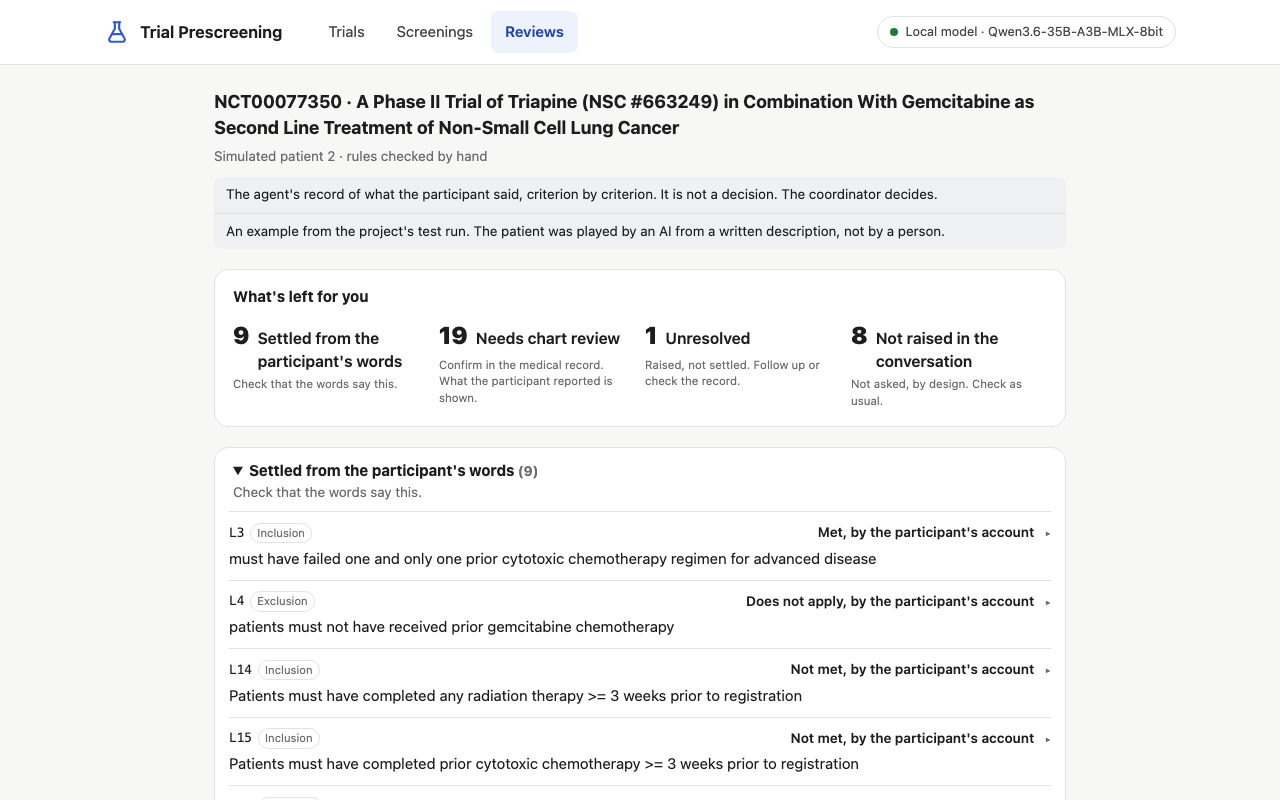
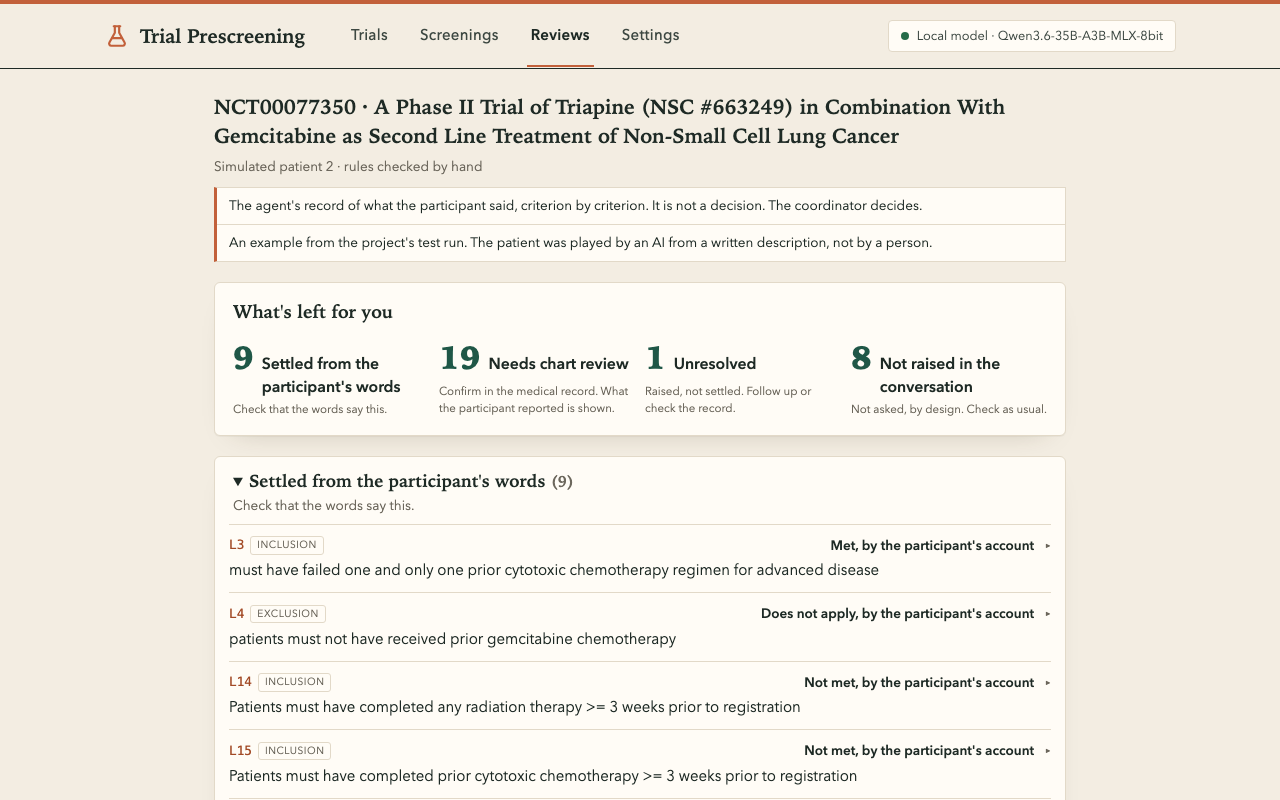
0018 step 7: images, demo and preview card retaken; focus ring; GIF width

Changed region(s): [[0.0, 0.0, 1.0, 1.0]]

diff --git a/scripts/make-demo.ts b/scripts/make-demo.ts
@@ -8,7 +8,8 @@
  * the page waits on the model are sped up so each lasts a fraction of a
  * second, and everything else plays as recorded. This trims, speeds and joins
  * those pieces with `ffmpeg`, then makes a looping GIF with its own palette.
- * If the GIF is over 5 MB it tries a lower frame rate, then a narrower width.
+ * If the GIF is over 5 MB it tries a lower frame rate, then narrower widths
+ * (720 px since slice 0018: the warmer page compresses less well).
  *
  * `ffmpeg` is a system tool, not a dependency, and is needed for this only.
  * No network, no model.
@@ -38,6 +39,7 @@ export const ATTEMPTS = [
   { fps: 12, width: 960 },
   { fps: 10, width: 960 },
   { fps: 10, width: 800 },
+  { fps: 10, width: 720 },
 ] as const;
 
 const CUTS_FILE = fileURLToPath(new URL("../e2e/.out/capture/cuts.json", import.meta.url));

diff --git a/src/web/styles.css b/src/web/styles.css
@@ -117,6 +117,11 @@ button:disabled {
   opacity: 0.45;
   cursor: default;
 }
+/* The focus ring in the page's ink, not the browser's blue (slice 0018). */
+:focus-visible {
+  outline: 2px solid var(--accent);
+  outline-offset: 2px;
+}
 .button.secondary,
 button.secondary {
   background: transparent;

diff --git a/work/0018-paper-and-ink/plan.md b/work/0018-paper-and-ink/plan.md
@@ -96,10 +96,11 @@ Each step is one commit, through `npm run check && git commit`. No Co-Authored-B
 **Modified:**
 - `src/web/styles.css`, `src/web/index.html`
 - `e2e/capture/social-card.html`
+- `scripts/make-demo.ts` (step 7: one more fallback width for the GIF)
 - `docs/images/trials.png`, `screening.png`, `review.png`, `transcript.png`, `settings.png`, `social-card.png`, `demo.gif`
 - `work/ROADMAP.md`; `work/0018-paper-and-ink/spec.md` only if step 5 moves a value
 
-**Not touched, checked at step 9:** every `src/web/*.tsx`, `src/web/logic.ts`, `src/web/review.ts`, `src/server/`, `src/transport/`, `src/screening/`, `src/criteria/`, `src/plain/`, `src/models/`, `src/trials/`, `tests/`, `e2e/*.spec.ts`, `e2e/lib/`, `evals/`, `data/`, `package.json`, `package-lock.json`, `README.md`, `CLAUDE.md`.
+**Not touched, checked at step 9:** every `src/web/*.tsx`, `src/web/logic.ts`, `src/web/review.ts`, `src/server/`, `src/transport/`, `src/screening/`, `src/criteria/`, `src/plain/`, `src/models/`, `src/trials/`, `tests/`, `e2e/*.spec.ts`, `e2e/lib/`, `evals/`, `data/`, `package.json`, `package-lock.json`, `README.md`, `CLAUDE.md`, `.env` (none exists in this clone, and none was made).
 
 ## Reused, not rebuilt
 
@@ -178,6 +179,17 @@ Each step is one commit, through `npm run check && git commit`. No Co-Authored-B
   - **Looked at and left:** the serif falls on headings, titles, counts and the agent's words only; capitals only on badges, tags and step names; review rows look alike apart from their own words. On a phone the chat pane is sticky, so a screenshot taken while scrolling shows the tester panel passing under it. That's 0014's layout, not this slice's.
   - The app builds the page at startup, so a CSS change needs a restart before it's seen. The first look missed the nav fix for that reason.
 
+- **Step 6.** `npm run test:e2e`: 11 passed, 4 skipped (the capture specs), 17.4 s. No spec changed.
+- **Step 7, getting the local model.** Three things stood in the way, none of them the code:
+  - oMLX wasn't running. It was opened (`open -a oMLX`) and reported healthy.
+  - This clone has no `.env` since the repository was split, so the app had no `OMLX_API_KEY` and every parse failed. **The owner's choice:** export the variable from the old clone's `.env` into the capture app's process only. No file was written, and the value was never printed.
+  - The model (36.9 GB) didn't fit under oMLX's memory ceiling (36.2 GB) with other apps open. The owner closed some, and the ceiling rose to 42.5 GB.
+- **Step 7, a fix the images showed.** The retaken `screening.png` had the browser's blue focus ring on the answer box, the one blue left on the page. A `:focus-visible` rule now draws a 2 px `--accent` outline (spec §3 gained a line). The app was restarted to rebuild the page, and everything was captured again. `npm run screenshots`: 4 passed, 1.8 min.
+- **Step 7, the GIF.** The warmer page compresses less well than flat white: at the script's smallest setting (10 fps, 800 px) the GIF was 5.78–5.89 MB, over the 5 MB cap. The old one was already 5.13 MB. A lower frame rate barely helped (8 fps, 800 px: 5.50 MB), so `ATTEMPTS` in `scripts/make-demo.ts` gained `{ fps: 10, width: 720 }` instead. The GIF is 4.89 MB at 720 px, 27 s. Changing the dither would also have worked, but `tests/scripts/make-demo.test.ts` pins the filter graph, and this slice changes no tests.
+- **Step 7, looked at.** All five README images, the preview card (its crop of `review.png` still reads, so its offsets stay) and nine frames of the GIF. The model's words are the real agent's, from that run.
+
 ## Gate record
+
+- **Passed, 2026-10.** The owner looked at the 46 headless screenshots (light and dark, 1280 and 390 px) and the contrast table, and said the gate passes.
 
 ## Review passes

diff --git a/work/0018-paper-and-ink/spec.md b/work/0018-paper-and-ink/spec.md
@@ -59,6 +59,7 @@ Only the rules listed change. Everything else in `styles.css` stays.
 - **Headings.** Page `h1` 2.4 rem; first-run `h1` as now. Serif per §2.
 - **Cards** (`.card`, `.participant`, `.tester`, `.review-summary`, `.review-group`, `.review-transcript`, `.steps li`, `.counts li`). `--radius`, a `--line` border, and a soft warm shadow: `0 1px 0 rgba(60,45,20,.04), 0 12px 28px -22px rgba(60,45,20,.35)`. In dark mode, the shadow is `0 12px 28px -22px rgba(0,0,0,.6)`. Both are `--shadow`.
 - **Buttons.** 4 px corners. Primary unchanged in structure (`--button`, white text). Secondary transparent with a 1 px `--text` border and `--text` words. Quiet and destructive as now. `button.danger`'s words become `--panel`, so they stay readable on dark mode's light `--down`.
+- **Focus.** `:focus-visible` draws a 2 px `--accent` outline, 2 px out, in place of the browser's blue. *(Added at step 7, when the retaken screening showed the default ring.)*
 - **Fields** (`.add-row input`, `.field > input`, `.field select`, `.composer textarea`). 4 px corners; `--field` and `--field-line`.
 - **Badges and tags** (`.badge`, `.tag`). 3 px corners, capitals, 0.05 em tracking, 0.72 rem. **Chips** (`.chips li`) keep sentence case.
 - **Step names** (`.step-name`). `--terracotta-ink`, capitals, 0.08 em tracking.
